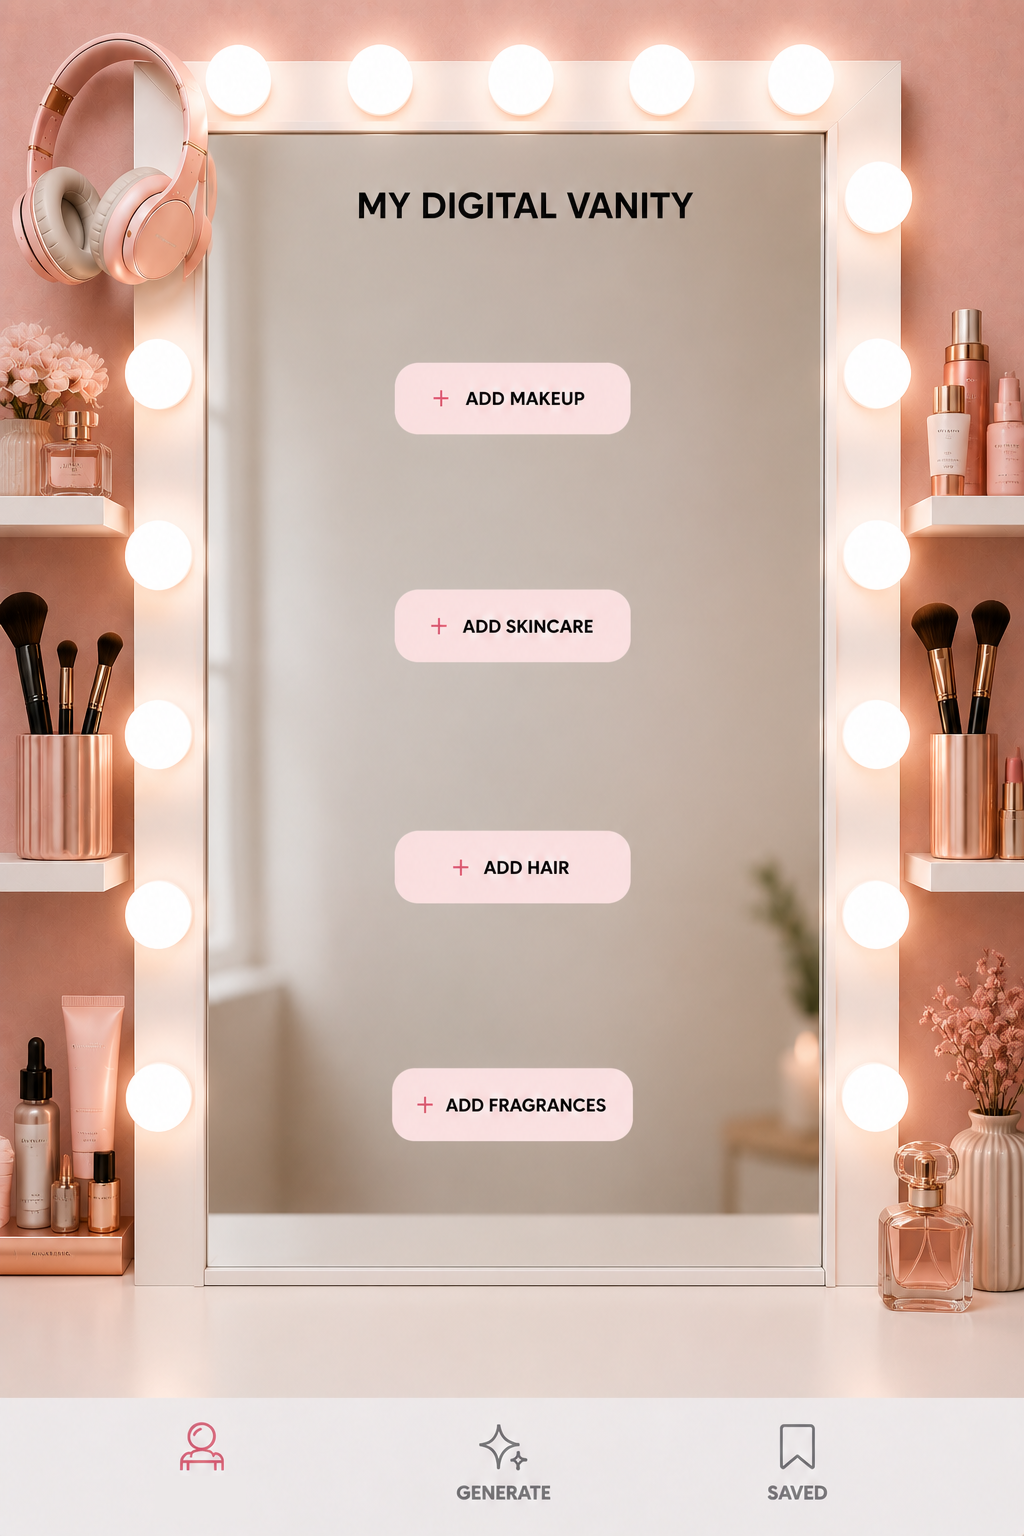
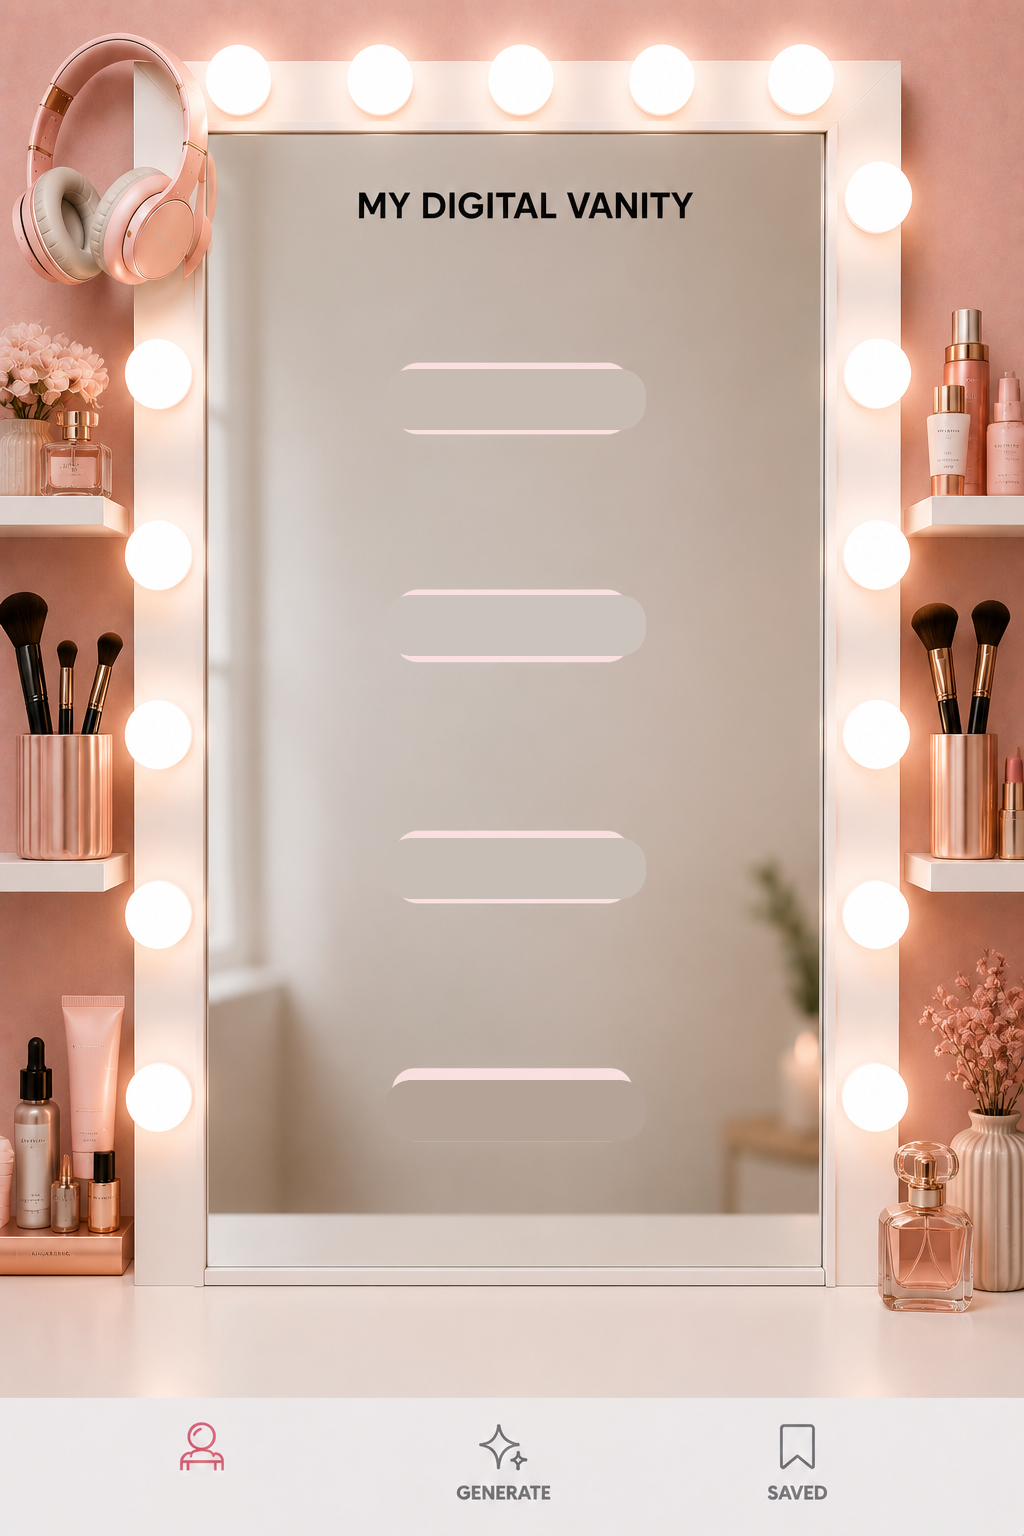
Update outfit generator UI and add reference images for vanity background
Replit-Commit-Author: Agent

diff --git a/artifacts/outfit-generator/src/pages/generate.tsx b/artifacts/outfit-generator/src/pages/generate.tsx
@@ -248,7 +248,7 @@ export default function GeneratePage() {
     >
       {/* ── Background image ── */}
       <img
-        src="/vanity-bg.png"
+        src="/vanity-bg.png?v=2"
         alt="My Digital Vanity"
         style={{
           position: "absolute",

diff --git a/artifacts/outfit-generator/src/pages/wardrobe.tsx b/artifacts/outfit-generator/src/pages/wardrobe.tsx
@@ -198,7 +198,7 @@ export default function WardrobePage() {
     >
       {/* ── Background image ── */}
       <img
-        src="/vanity-bg.png"
+        src="/vanity-bg.png?v=2"
         alt="My Digital Vanity"
         style={{
           position: "absolute",